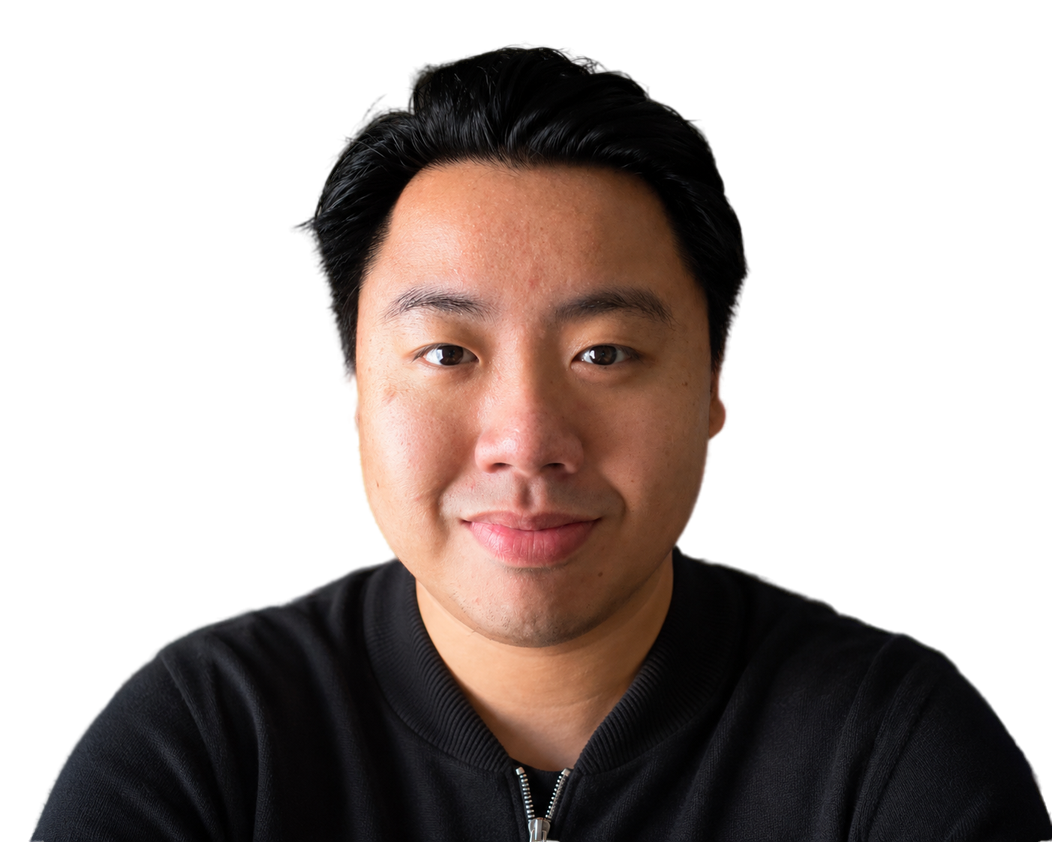
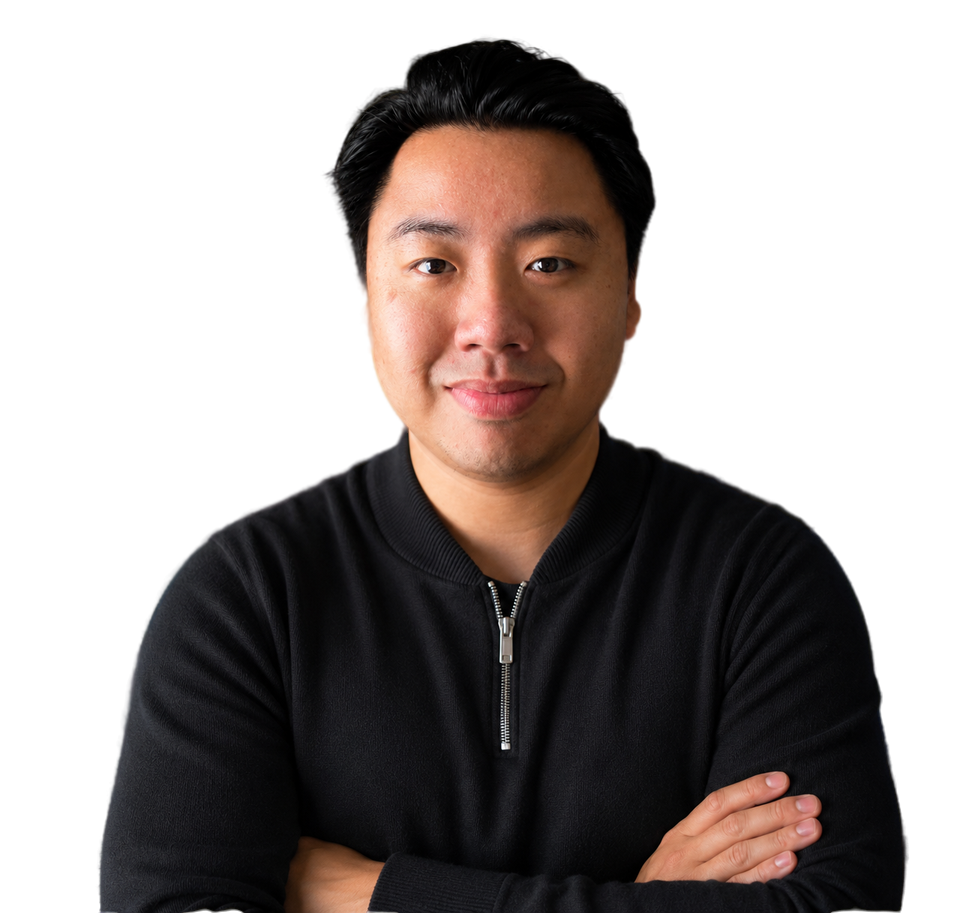
finishing footer section

diff --git a/css/style.css b/css/style.css
@@ -517,14 +517,14 @@
 /* ===== FOOTER ===== */
 .footer {
   padding-block: var(--space-lg);
-  border-top: 1px solid var(--color-border);
+  border-top: 4px solid var(--color-accent-green);
   display: flex;
   align-items: center;
   justify-content: space-between;
 }
 
 .footer_logo {
-  font-size: 28px;
+  font-size: 40px;
   font-weight: 700;
 }
 
@@ -534,19 +534,23 @@
 
 .footer_legal-link {
   display: block;
-  color: var(--color-text-muted);
-  font-size: var(--fs-small);
-  margin-top: var(--space-xs);
+  color: white;
+  font-size: 20px;
+  font-weight: 400;
+}
+
+.footer_copy {
+  font-size: 25px;
 }
 
 .footer_socials {
   display: flex;
-  gap: var(--space-sm);
+  gap: var(--space-md);
 }
 
 .footer_socials img {
-  width: 28px;
-  height: 28px;
+  width: 36px;
+  height: 36px;
 }
 
 /* ===== END FOOTER ===== */
@@ -596,7 +600,7 @@
 .about_photo-wrap {
   position: relative;
   flex-shrink: 0;
-  width: 600px;
+  width: 750px;
   max-width: none;
   margin-top: 200px;
 }
@@ -606,7 +610,7 @@
   top: 50%;
   left: 50%;
   transform: translate(-50%, -50%);
-  width: 140%;
+  width: 120%;
   max-width: none;
   z-index: 0;
   pointer-events: none;